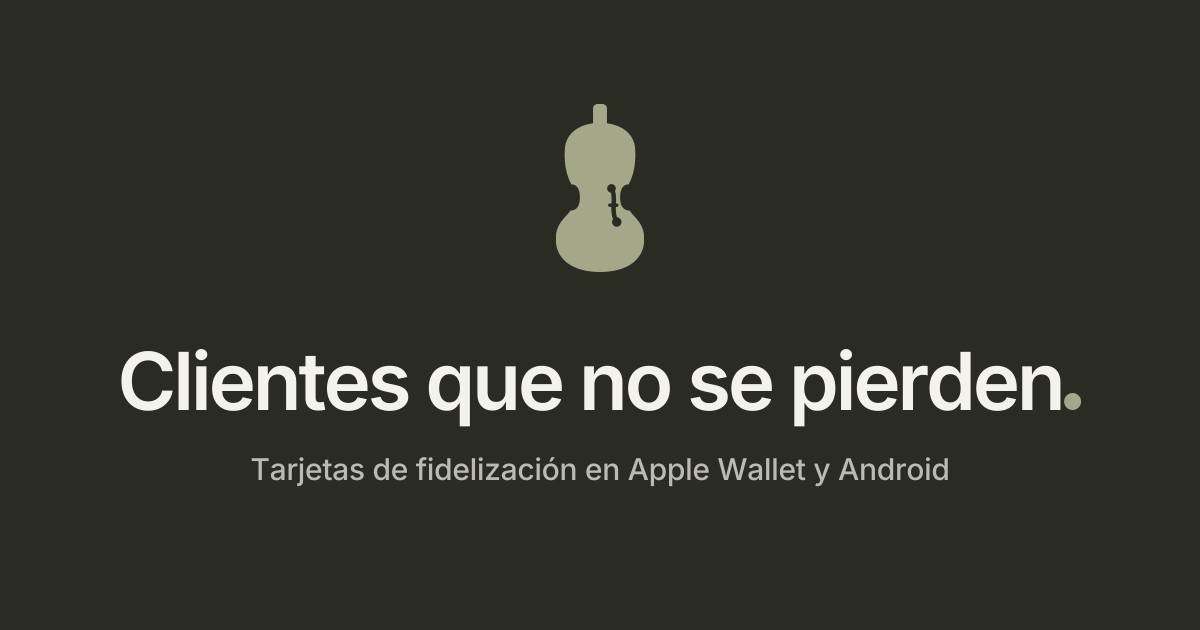
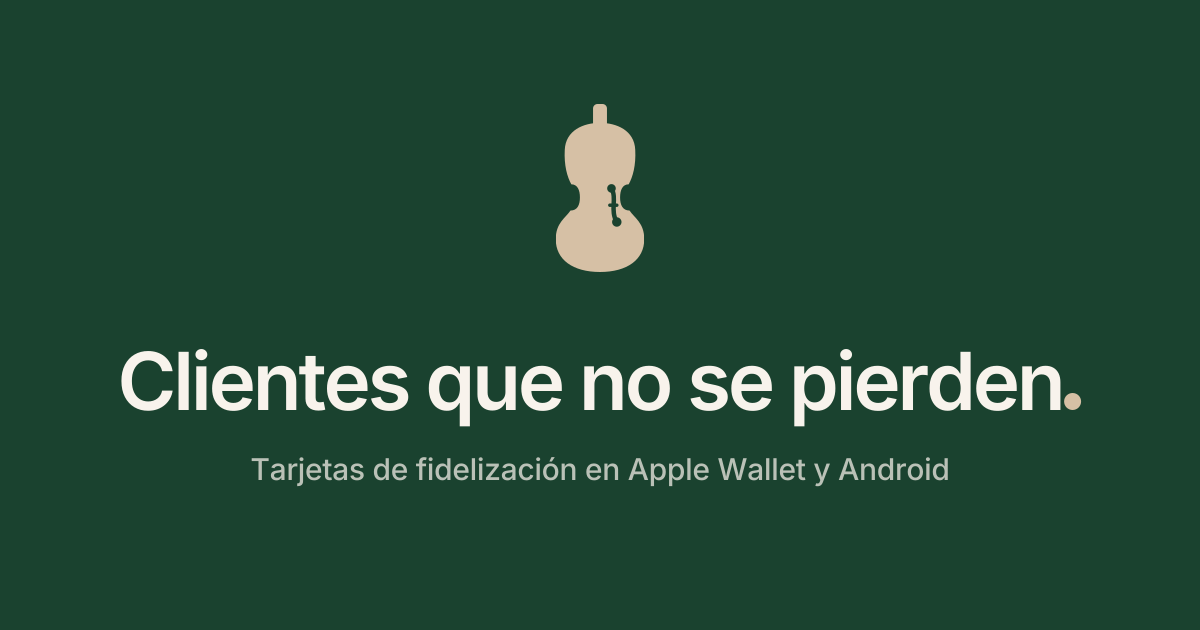
feat: la web de fiddle con la paleta «Verde y espresso»
La de antes (salvia, topo, nogal, ébano y carbón) mezclaba tres familias que se
parecían sin ser iguales: el nogal y el carbón, casi con la misma luz, eran las
dos bandas oscuras y parecían el mismo color mal copiado.

- Paleta nueva en app/home/paleta.js: verde botella para la marca (botones,
  violín y banda del panel) y la base de una cachemira para lo demás: lino de
  fondo, camel y avena de acento, visón y espresso para los textos y el pie.
  Contrastes comprobados en la cabecera del fichero.
- Las claves llevan el nombre del color nuevo (verde, camel, avena, visón,
  espresso) y las clases de las bandas, fondo-verde y fondo-espresso.
- Icono, vista previa de WhatsApp y logo para subir regenerados con
  scripts/gen-marca-web.mjs; la vista previa va sobre el verde. Versión de las
  imágenes a «verde» para que no salgan las viejas.

Changed region(s): [[0.4625, 0.1508, 0.555, 0.4524], [0.8633, 0.6333, 0.925, 0.6635]]

diff --git a/src/app/home/estilo.js b/src/app/home/estilo.js
@@ -4,10 +4,10 @@ import { PALETA as P } from "./paleta";
 // ESTILO DE LA WEB DE FIDDLE
 // ----------------------------------------------------------------------------
 // Los colores de la marca salen de paleta.js (los del iPhone, de iOS). Reparto:
-//   papel de fondo, carbón para el texto, nogal para el violín y los botones;
-//   bandas oscuras en nogal (el panel) y carbón (contacto y pie).
-//   El punto de los títulos es el sello: topo sobre claro, salvia sobre oscuro.
-//   La salvia nunca va en texto sobre claro (2,2:1).
+//   papel de fondo, espresso para el texto, verde para el violín y los botones;
+//   bandas oscuras en verde (el panel) y espresso (contacto y pie).
+//   El punto de los títulos es el sello: camel sobre claro, avena sobre oscuro.
+//   La avena nunca va en texto sobre claro (1,6:1).
 //
 // Movimiento: solo opacidad y desplazamiento. El texto de la portada no se anima:
 // tiene que verse aunque el navegador no llegue a correr ni una animación. Las
@@ -20,8 +20,8 @@ const alfa = (hex, a) => `rgba(${[1, 3, 5].map((i) => parseInt(hex.slice(i, i + 
 
 export const css = `
 .home{
-  --fondo:${P.papel}; --superficie:${P.superficie}; --tinta:${P.carbon}; --tinta-2:${P.ebano}; --tinta-3:${P.tintaSuave};
-  --linea:${alfa(P.carbon, 0.11)}; --marca:${P.nogal}; --marca-encima:${P.nogalEncima}; --acento:${P.topo}; --salvia:${P.salvia};
+  --fondo:${P.papel}; --superficie:${P.superficie}; --tinta:${P.espresso}; --tinta-2:${P.vison}; --tinta-3:${P.tintaSuave};
+  --linea:${alfa(P.espresso, 0.11)}; --marca:${P.verde}; --marca-encima:${P.verdeEncima}; --acento:${P.camel}; --avena:${P.avena};
   --claro:${P.papel}; --claro-2:${alfa(P.papel, 0.74)}; --claro-linea:${alfa(P.papel, 0.14)};
   --ancho:1120px; --margen:clamp(20px,4vw,40px); --curva:cubic-bezier(.16,1,.3,1);
   --apple:-apple-system,"SF Pro Text","Helvetica Neue",system-ui,sans-serif;
@@ -63,7 +63,7 @@ body:has(.home){background:${P.papel}}
 
 /* ---------- comunes ---------- */
 .punto{display:inline-block;width:.19em;height:.19em;margin-left:.07em;border-radius:50%;background:var(--acento);vertical-align:baseline}
-.oscuro .punto{background:var(--salvia)}
+.oscuro .punto{background:var(--avena)}
 .antetitulo{font-size:15px;font-weight:550;color:var(--tinta-2);letter-spacing:-.005em}
 .entradilla{font-size:clamp(17px,.95rem + .4vw,21px);line-height:1.5;color:var(--tinta-2);max-width:34em;text-wrap:pretty;letter-spacing:-.01em}
 .titulo-bloque{font-size:clamp(34px,1.3rem + 3.3vw,56px);line-height:1.03;font-weight:660;letter-spacing:-.042em;text-wrap:balance}
@@ -75,11 +75,11 @@ body:has(.home){background:${P.papel}}
   border-radius:999px;font-size:16px;font-weight:600;letter-spacing:-.01em;text-decoration:none;cursor:pointer;
   transition:background-color .2s,border-color .2s,transform .15s}
 .boton{background:var(--marca);color:var(--claro)!important}
-.boton-suave{border:1px solid ${alfa(P.carbon, 0.2)};color:var(--tinta)}
+.boton-suave{border:1px solid ${alfa(P.espresso, 0.2)};color:var(--tinta)}
 .boton-claro{background:var(--claro);color:var(--marca)!important}
 @media (hover:hover){
   .boton:hover{background:var(--marca-encima)}
-  .boton-suave:hover{background:${alfa(P.carbon, 0.05)};border-color:${alfa(P.carbon, 0.3)}}
+  .boton-suave:hover{background:${alfa(P.espresso, 0.05)};border-color:${alfa(P.espresso, 0.3)}}
   .boton-claro:hover{background:#fff}
 }
 .boton:active,.boton-suave:active{transform:scale(.98)}
@@ -101,7 +101,7 @@ body:has(.home){background:${P.papel}}
 /* el móvil que va pasando tarjetas (Carrusel.js) */
 .movil{position:relative;margin:0;width:322px;font-family:var(--apple)}
 .movil-cuerpo{position:relative;padding:11px;border-radius:56px;background:linear-gradient(150deg,#3b3a35,#141410 45%,#28271f);
-  box-shadow:inset 0 0 0 1.5px rgba(255,255,255,.08),0 60px 90px -40px ${alfa(P.carbon, 0.55)},0 28px 40px -28px ${alfa(P.carbon, 0.35)};
+  box-shadow:inset 0 0 0 1.5px rgba(255,255,255,.08),0 60px 90px -40px ${alfa(P.espresso, 0.55)},0 28px 40px -28px ${alfa(P.espresso, 0.35)};
   touch-action:pan-y pinch-zoom;user-select:none;-webkit-user-select:none}
 .movil-isla{position:absolute;z-index:2;top:22px;left:50%;width:94px;height:28px;border-radius:20px;background:#000;translate:-50% 0}
 .movil-pantalla{height:640px;display:flex;flex-direction:column;overflow:hidden;border-radius:45px;background:#f2f2f7;padding:0 12px;color:#000}
@@ -126,19 +126,19 @@ body:has(.home){background:${P.papel}}
 .movil-titulo{font-size:15px;font-weight:600;letter-spacing:-.01em;color:var(--tinta)}
 .movil-controles{display:flex;align-items:center}
 .movil-punto{width:28px;height:44px;display:grid;place-items:center;padding:0;border:0;background:none;cursor:pointer;border-radius:8px}
-.movil-punto i{width:7px;height:7px;border-radius:999px;background:${alfa(P.carbon, 0.55)};transition:width .3s var(--curva),background-color .3s}
+.movil-punto i{width:7px;height:7px;border-radius:999px;background:${alfa(P.espresso, 0.55)};transition:width .3s var(--curva),background-color .3s}
 .movil-punto[aria-current] i{width:22px;background:var(--marca)}
-@media (hover:hover){.movil-punto:not([aria-current]):hover i{background:${alfa(P.carbon, 0.8)}}}
+@media (hover:hover){.movil-punto:not([aria-current]):hover i{background:${alfa(P.espresso, 0.8)}}}
 .movil-pausa{margin-left:10px;width:34px;height:34px;display:grid;place-items:center;border-radius:50%;cursor:pointer;
-  border:1px solid ${alfa(P.carbon, 0.18)};background:none;color:var(--tinta-2)}
-@media (hover:hover){.movil-pausa:hover{color:var(--tinta);border-color:${alfa(P.carbon, 0.32)}}}
+  border:1px solid ${alfa(P.espresso, 0.18)};background:none;color:var(--tinta-2)}
+@media (hover:hover){.movil-pausa:hover{color:var(--tinta);border-color:${alfa(P.espresso, 0.32)}}}
 @media (max-width:379px){.movil{zoom:.88}}
 @media (max-width:339px){.movil{zoom:.8}}
 
 /* un aviso de la pantalla de bloqueo */
 .aviso{display:grid;grid-template-columns:38px minmax(0,1fr);gap:11px;align-items:center;padding:11px 14px 12px 11px;
   border-radius:22px;background:rgba(250,250,250,.88);-webkit-backdrop-filter:blur(24px) saturate(160%);backdrop-filter:blur(24px) saturate(160%);
-  box-shadow:0 14px 34px -14px ${alfa(P.carbon, 0.36)},0 0 0 .5px ${alfa(P.carbon, 0.08)};font-family:var(--apple);color:#1c1c1e;text-align:left}
+  box-shadow:0 14px 34px -14px ${alfa(P.espresso, 0.36)},0 0 0 .5px ${alfa(P.espresso, 0.08)};font-family:var(--apple);color:#1c1c1e;text-align:left}
 .aviso-texto{min-width:0}
 .aviso-cabeza{display:flex;align-items:baseline;justify-content:space-between;gap:8px}
 .aviso-cabeza strong{font-size:14.5px;font-weight:600;overflow:hidden;text-overflow:ellipsis;white-space:nowrap}
@@ -156,15 +156,15 @@ body:has(.home){background:${P.papel}}
 /* El dato grande de cada paso: lo que se tarda o lo que cuesta, que es lo que nos distingue. */
 .paso-dato{margin-top:24px;font-size:clamp(30px,1.4rem + 1vw,38px);line-height:1.05;font-weight:680;letter-spacing:-.045em;color:var(--marca)}
 .paso-visual{height:236px;display:grid;place-items:center;overflow:hidden}
-.paso-cartel{background:linear-gradient(160deg,${P.salviaClara},${P.salviaHonda})}
-.paso-caja{background:linear-gradient(160deg,${P.topoClaro},${P.topoHondo})}
-.paso-avisos{background:linear-gradient(160deg,${P.nogalClaro},${P.nogalHondo})}
-.cartel{display:grid;justify-items:center;gap:10px;width:156px;padding:16px 14px 14px;border-radius:16px;background:${P.crema};color:${P.nogal};
-  box-shadow:0 18px 30px -16px ${alfa(P.nogal, 0.5)};rotate:-4deg}
+.paso-cartel{background:linear-gradient(160deg,${P.verdeClaro},${P.verdeHondo})}
+.paso-caja{background:linear-gradient(160deg,${P.camelClaro},${P.camelHondo})}
+.paso-avisos{background:linear-gradient(160deg,${P.avenaClara},${P.avenaHonda})}
+.cartel{display:grid;justify-items:center;gap:10px;width:156px;padding:16px 14px 14px;border-radius:16px;background:${P.crema};color:${P.verde};
+  box-shadow:0 18px 30px -16px ${alfa(P.verde, 0.5)};rotate:-4deg}
 .cartel img:last-of-type{width:104px;height:104px}
 .cartel span{font-size:11.5px;font-weight:650;line-height:1.25;text-align:center;letter-spacing:-.01em}
 .caja{display:grid;gap:10px;width:236px;padding:14px;border-radius:20px;background:#fff;font-family:var(--apple);
-  box-shadow:0 18px 34px -18px ${alfa(P.carbon, 0.42)}}
+  box-shadow:0 18px 34px -18px ${alfa(P.espresso, 0.42)}}
 .caja-fila{display:flex;justify-content:space-between;align-items:center;font-size:14px}
 .caja-fila span{padding:2px 8px;border-radius:7px;background:#f2f2f7;font-size:12px;font-weight:650;letter-spacing:.12em}
 .caja-banda{display:block;width:100%;height:auto;border-radius:10px}
@@ -175,7 +175,7 @@ body:has(.home){background:${P.papel}}
   background:var(--superficie);box-shadow:0 0 0 1px var(--linea)}
 .montaje p{color:var(--tinta-2);line-height:1.55;text-wrap:pretty}
 .montaje strong{color:var(--tinta);font-weight:620}
-.montaje-icono{flex-shrink:0;width:46px;height:46px;display:grid;place-items:center;border-radius:50%;background:var(--salvia);color:var(--marca)}
+.montaje-icono{flex-shrink:0;width:46px;height:46px;display:grid;place-items:center;border-radius:50%;background:var(--avena);color:var(--marca)}
 @media (max-width:400px){.montaje{flex-direction:column;align-items:flex-start;gap:12px;padding:20px}}
 
 /* ---------- bandas oscuras ---------- */
@@ -183,8 +183,8 @@ body:has(.home){background:${P.papel}}
 .oscuro{color:var(--claro)}
 .oscuro .entradilla{color:var(--claro-2)}
 .bloque.oscuro{max-width:none;padding-left:0;padding-right:0}
-.fondo-nogal{background:var(--marca)}
-.fondo-carbon{background:var(--tinta)}
+.fondo-verde{background:var(--marca)}
+.fondo-espresso{background:var(--tinta)}
 .panel-dentro,.contacto-dentro{max-width:var(--ancho);margin:0 auto;padding:0 var(--margen)}
 
 /* ---------- el panel del dueño (Panel.js) ---------- */
@@ -215,18 +215,18 @@ body:has(.home){background:${P.papel}}
   .panel-cifras strong{font-size:24px}
 }
 .panel-barras{display:flex;align-items:flex-end;gap:3px;height:84px}
-.panel-barras i{flex:1;border-radius:3px 3px 1px 1px;background:${alfa(P.ebano, 0.45)}}
+.panel-barras i{flex:1;border-radius:3px 3px 1px 1px;background:${alfa(P.vison, 0.45)}}
 .panel-barras i.hoy{background:var(--marca)}
-.panel-barras i.cerrado{background:${alfa(P.carbon, 0.12)}}
+.panel-barras i.cerrado{background:${alfa(P.espresso, 0.12)}}
 .panel-linea{font-size:13.5px;color:var(--tinta-2)}
 .panel-linea strong{color:var(--tinta)}
 .panel-mapa{position:relative;display:grid;align-content:end;min-height:270px;padding:14px;border-radius:20px;overflow:hidden;
-  background-color:${P.salviaClara};
+  background-color:${P.verdeClaro};
   background-image:linear-gradient(35deg,transparent 46%,rgba(255,255,255,.9) 46% 54%,transparent 54%),
     repeating-linear-gradient(90deg,transparent 0 46px,rgba(255,255,255,.75) 46px 54px),
     repeating-linear-gradient(0deg,transparent 0 58px,rgba(255,255,255,.75) 58px 66px)}
 .panel-chincheta{position:absolute;left:50%;top:36%;width:18px;height:18px;border-radius:50%;background:var(--marca);translate:-50% -50%;
-  box-shadow:0 0 0 5px ${alfa(P.papel, 0.95)},0 0 0 26px ${alfa(P.nogal, 0.14)},0 0 0 52px ${alfa(P.nogal, 0.07)}}
+  box-shadow:0 0 0 5px ${alfa(P.papel, 0.95)},0 0 0 26px ${alfa(P.verde, 0.14)},0 0 0 52px ${alfa(P.verde, 0.07)}}
 .panel-grupos{display:flex;flex-wrap:wrap;gap:8px;margin-bottom:6px}
 .panel-grupos span{display:inline-flex;align-items:center;gap:6px;padding:7px 12px;border-radius:999px;font-size:13px;font-weight:550;
   background:var(--fondo);color:var(--tinta-2);box-shadow:inset 0 0 0 1px var(--linea)}
@@ -240,7 +240,7 @@ body:has(.home){background:${P.papel}}
 .panel-fila i{height:16px;border-radius:4px;background:var(--tinta-2)}
 .panel-idea{display:flex;gap:10px;align-items:flex-start;padding:12px 14px;border-radius:14px;background:var(--fondo);
   font-size:14px;font-weight:600;line-height:1.35}
-.panel-idea svg{flex-shrink:0;color:${P.topoOscuro}}
+.panel-idea svg{flex-shrink:0;color:${P.camelOscuro}}
 .panel-nota{margin-top:26px;color:var(--claro-2)}
 .panel-nota a{color:var(--claro);font-weight:600;text-decoration-thickness:1px;text-underline-offset:3px}
 
@@ -249,10 +249,10 @@ body:has(.home){background:${P.papel}}
 @media (min-width:760px){.planes{grid-template-columns:repeat(2,minmax(0,1fr));gap:22px}}
 .plan{display:flex;flex-direction:column;padding:clamp(26px,3.5vw,38px);border-radius:32px;background:var(--superficie);
   box-shadow:0 0 0 1px var(--linea)}
-.plan-destacado{background:var(--tinta);box-shadow:0 40px 70px -40px ${alfa(P.carbon, 0.6)}}
+.plan-destacado{background:var(--tinta);box-shadow:0 40px 70px -40px ${alfa(P.espresso, 0.6)}}
 .plan-cabeza{display:flex;align-items:center;justify-content:space-between;gap:12px}
 .plan-cabeza h3{font-size:22px;font-weight:650;letter-spacing:-.03em}
-.plan-etiqueta{padding:5px 11px;border-radius:999px;background:var(--salvia);color:var(--tinta);font-size:12.5px;font-weight:650;white-space:nowrap}
+.plan-etiqueta{padding:5px 11px;border-radius:999px;background:var(--avena);color:var(--tinta);font-size:12.5px;font-weight:650;white-space:nowrap}
 .plan-lema{margin-top:4px;color:var(--tinta-2)}
 .plan-precio{display:flex;align-items:baseline;gap:10px;margin:26px 0 26px}
 .plan-cifra{font-size:clamp(52px,2.4rem + 1.6vw,64px);line-height:1;font-weight:660;letter-spacing:-.05em;font-variant-numeric:tabular-nums}
@@ -262,7 +262,7 @@ body:has(.home){background:${P.papel}}
 .plan-destacado .plan-lista{border-top-color:var(--claro-linea)}
 .plan-lista li{display:grid;grid-template-columns:20px minmax(0,1fr);gap:12px;align-items:start;line-height:1.4}
 .plan-lista svg{margin-top:1px;color:var(--acento)}
-.plan-destacado .plan-lista svg{color:var(--salvia)}
+.plan-destacado .plan-lista svg{color:var(--avena)}
 .plan .boton{width:100%}
 .planes-nota{margin-top:28px;text-align:center;color:var(--tinta-2)}
 .planes-nota a{font-weight:600;color:var(--marca);text-decoration-thickness:1px;text-underline-offset:3px}
@@ -285,7 +285,7 @@ body:has(.home){background:${P.papel}}
 .iniciales{display:flex;margin-bottom:6px}
 .iniciales span{width:56px;height:56px;display:grid;place-items:center;border-radius:50%;font-size:21px;font-weight:650;
   color:var(--tinta);box-shadow:0 0 0 3px var(--tinta)}
-.iniciales span:first-child{background:var(--salvia)}
+.iniciales span:first-child{background:var(--avena)}
 .iniciales span:last-child{background:var(--claro);margin-left:-12px}
 .contacto-acciones{display:grid;gap:12px}
 .contacto-via{display:flex;align-items:center;gap:16px;min-height:76px;padding:16px 20px;border-radius:22px;text-decoration:none;

diff --git a/src/app/home/paleta.js b/src/app/home/paleta.js
@@ -1,38 +1,44 @@
 // ============================================================================
 // LOS COLORES DE FIDDLE
 // ----------------------------------------------------------------------------
-// Los cinco de la marca (elegidos el 13-10-2026) van tal cual. Son todos
-// apagados y casi todos oscuros, así que para que respiren hacen falta un papel
-// claro y unos tintes: salen de ellos mismos, no son colores nuevos.
+// «Verde y espresso» (elegida el 13-10-2026): el verde botella de un club inglés
+// para la marca y la base de una cachemira (lino, camel, avena, visón, espresso)
+// para todo lo demás. La de antes (salvia, topo, nogal) mezclaba tres familias que
+// se parecían sin ser iguales y se leía como un error.
 //
-//   carbón  el texto y las bandas oscuras         salvia  el acento sobre oscuro
-//   ébano   el texto secundario                   topo    el acento sobre claro
-//   nogal   el violín y los botones
+//   espresso  el texto y las bandas oscuras       avena  el acento sobre oscuro
+//   visón     el texto secundario                 camel  el acento sobre claro
+//   verde     el violín, los botones y el panel
 //
-// Contraste comprobado sobre el papel: carbón 12,6:1, ébano 6,3:1, nogal 11,8:1,
-// topo 4,4:1 (solo para cosas grandes: el punto, iconos). Sobre carbón, el papel
-// 12,6:1 y la salvia 5,7:1. La salvia sobre el papel no llega (2,2:1): nunca texto.
+// Una regla que no se rompe: el verde (la marca) y el espresso (la tinta) se
+// distinguen de un vistazo, por tono y por luz. Si se parecieran, la banda del
+// panel y la del pie parecerían el mismo color mal copiado.
+//
+// Contraste comprobado sobre el papel: espresso 15,9:1, visón 6,6:1, verde 10,2:1,
+// camel 3,3:1 (solo para cosas grandes: el punto, iconos). Sobre el verde, el papel
+// 10,2:1 y la avena 6,4:1; sobre el espresso, 15,9:1 y 10,0:1. La avena sobre el
+// papel no llega (1,6:1): nunca texto.
 // ============================================================================
 
 export const PALETA = {
   // los cinco
-  salvia: "#a5a789",
-  topo: "#816c61",
-  nogal: "#402c0f",
-  ebano: "#575a4b",
-  carbon: "#2a2c24",
+  verde: "#1a422f",
+  camel: "#a67f58",
+  avena: "#d6c0a5",
+  vison: "#60544b",
+  espresso: "#1f1812",
   // los que salen de ellos
-  papel: "#f4f2ec", // el fondo: blanco roto hacia la salvia
-  superficie: "#fbfaf6", // tarjetas sobre el papel
-  crema: "#f6f1e8", // el papel con algo del nogal, para tarjetas de ejemplo
-  salviaClara: "#e3e4d6",
-  topoClaro: "#ece5df",
-  nogalClaro: "#ede6da",
-  tintaSuave: "#6b6a5c", // texto terciario: 4,9:1 sobre el papel
-  topoOscuro: "#6f5b50", // el topo para letra pequeña: 5,7:1 sobre la crema
-  nogalEncima: "#553c18", // los botones al pasar el ratón
+  papel: "#f8f3ec", // el fondo: lino, blanco roto hacia la avena
+  superficie: "#fcf9f5", // tarjetas sobre el papel
+  crema: "#f6efe4", // el papel con algo más de avena, para tarjetas de ejemplo
+  verdeClaro: "#e0e9e0",
+  camelClaro: "#f2dfcf",
+  avenaClara: "#ede9df",
+  tintaSuave: "#75695f", // texto terciario: 4,8:1 sobre el papel
+  camelOscuro: "#7e5d3f", // el camel para letra pequeña: 5,2:1 sobre la crema
+  verdeEncima: "#26523c", // los botones al pasar el ratón
   // el final de los degradados de los pasos (cada tinte, un punto más hondo)
-  salviaHonda: "#d6d8c5",
-  topoHondo: "#e0d5cc",
-  nogalHondo: "#e2d6c3",
+  verdeHondo: "#d3e1d3",
+  camelHondo: "#ecd4c0",
+  avenaHonda: "#e6dfd0",
 };

diff --git a/src/app/home/page.js b/src/app/home/page.js
@@ -42,7 +42,7 @@ export default async function Home() {
       <header className="cabecera">
         <div className="cabecera-dentro">
           <a href="#inicio" className="cabecera-marca" aria-label="fiddle, inicio">
-            <LogoFiddle tam={30} color={PALETA.nogal} id="efe-cabecera" />
+            <LogoFiddle tam={30} color={PALETA.verde} id="efe-cabecera" />
           </a>
           <nav className="cabecera-nav" aria-label="Secciones">
             <a href="#como-funciona" className="solo-ancho">Cómo funciona</a>
@@ -140,7 +140,7 @@ export default async function Home() {
           </div>
         </section>
 
-        <section id="panel" className="bloque oscuro fondo-nogal" aria-labelledby="titulo-panel">
+        <section id="panel" className="bloque oscuro fondo-verde" aria-labelledby="titulo-panel">
           <div className="panel-dentro">
             <Encabezado id="titulo-panel" titulo="Sabes quién vuelve">
               Desde tu panel ves quién viene, cada cuánto y quién se te está escapando. Y desde ahí mismo
@@ -205,7 +205,7 @@ export default async function Home() {
           </div>
         </section>
 
-        <section id="contacto" className="bloque oscuro fondo-carbon">
+        <section id="contacto" className="bloque oscuro fondo-espresso">
           <div className="contacto-dentro">
             <div className="contacto-texto revela">
               <div className="iniciales" aria-hidden="true">
@@ -244,7 +244,7 @@ export default async function Home() {
 
       <footer className="pie oscuro">
         <div className="pie-dentro">
-          <LogoFiddle tam={28} color={PALETA.salvia} id="efe-pie" />
+          <LogoFiddle tam={28} color={PALETA.avena} id="efe-pie" />
           <nav className="pie-nav" aria-label="Pie">
             <a href="#como-funciona">Cómo funciona</a>
             <a href="#panel">El panel</a>
@@ -284,7 +284,7 @@ const PREGUNTAS = [
   ],
 ];
 
-// El punto del final de cada título: un sello (topo en claro, salvia en oscuro).
+// El punto del final de cada título: un sello (camel en claro, avena en oscuro).
 function Punto() {
   return <span className="punto" aria-hidden="true" />;
 }
@@ -312,6 +312,6 @@ function Flecha() {
 const banda = ({ negocio, cliente }) => comoDataUri(stripDelPase(negocio, cliente).svg);
 
 async function qrDeTexto(texto) {
-  const svg = await QRCode.toString(texto, { type: "svg", margin: 2, errorCorrectionLevel: "M", color: { dark: PALETA.carbon, light: "#ffffff" } });
+  const svg = await QRCode.toString(texto, { type: "svg", margin: 2, errorCorrectionLevel: "M", color: { dark: PALETA.espresso, light: "#ffffff" } });
   return comoDataUri(svg);
 }

diff --git a/src/app/home/demo.js b/src/app/home/demo.js
@@ -49,8 +49,8 @@ export const CAFETERIA = {
   slug: "tu-cafeteria",
   nombre: "Tu cafetería",
   premio: "café gratis",
-  // topoOscuro y no topo: también pinta las etiquetas pequeñas del pase («PREMIO»).
-  tema: { estilo: "coffee", cardBg: P.crema, ink: P.nogal, accent: P.topoOscuro },
+  // camelOscuro y no camel: también pinta las etiquetas pequeñas del pase («PREMIO»).
+  tema: { estilo: "coffee", cardBg: P.crema, ink: P.verde, accent: P.camelOscuro },
 };
 
 // El móvil de la portada: una tarjeta por cosa que sabe hacer. Todas de «Tu
@@ -62,7 +62,7 @@ export const CARRUSEL = [
   {
     id: "doble",
     titulo: "Dos cartillas en una",
-    tienda: tuya("doble", { doble: "filas", cardBg: P.salviaClara, ink: P.carbon, accent: P.ebano }, {
+    tienda: tuya("doble", { doble: "filas", cardBg: P.verdeClaro, ink: P.espresso, accent: P.vison }, {
       cartillas: [
         { nombre: "Cafés", marca: "taza", meta: 8, premio: "café gratis" },
         { nombre: "Bollería", marca: "croissant", meta: 6, premio: "croissant gratis" },
@@ -71,12 +71,12 @@ export const CARRUSEL = [
     sellos: 5,
     sellos2: 2,
   },
-  { id: "forma", titulo: "Elige la forma", tienda: tuya("forma", { forma: "rombo", banda: "rayas", cardBg: P.crema, ink: P.nogal, accent: P.nogal }), sellos: 5 },
-  { id: "planta", titulo: "Una planta que crece", tienda: tuya("planta", { modo: "planta", cardBg: P.papel, ink: P.carbon, accent: P.ebano }), sellos: 5 },
+  { id: "forma", titulo: "Elige la forma", tienda: tuya("forma", { forma: "rombo", banda: "rayas", cardBg: P.crema, ink: P.verde, accent: P.verde }), sellos: 5 },
+  { id: "planta", titulo: "Una planta que crece", tienda: tuya("planta", { modo: "planta", cardBg: P.papel, ink: P.espresso, accent: P.vison }), sellos: 5 },
   {
     id: "cerrado",
     titulo: "Y cuándo vuelves a abrir",
-    tienda: tuya("cerrado", { forma: "hexagono", banda: "clara", cardBg: P.carbon, ink: P.papel, accent: P.ebano, detalle: P.salvia }),
+    tienda: tuya("cerrado", { forma: "hexagono", banda: "clara", cardBg: P.espresso, ink: P.papel, accent: P.vison, detalle: P.avena }),
     sellos: 4,
     estado: "cerrado",
   },

diff --git a/src/app/home/layout.js b/src/app/home/layout.js
@@ -7,7 +7,7 @@ import { PALETA } from "./paleta";
 // único que deja la CSP (font-src 'self').
 const geist = Geist({ subsets: ["latin"], display: "swap", variable: "--fuente-web" });
 
-const VERSION_IMAGENES = "violin";
+const VERSION_IMAGENES = "verde";
 
 const DESCRIPCION =
   "Tarjetas de fidelización para cafeterías en Apple Wallet y Android. Tus clientes la guardan con un escaneo y tú sumas sellos desde el móvil de la tienda.";

diff --git a/CLAUDE.md b/CLAUDE.md
@@ -548,8 +548,10 @@ contacto (`app/home/`). Estática: no lee la base ni la sesión.
   sabe hacer (`CARRUSEL`; quién se ve lo decide `Carrusel.js`). Una novedad del pase que
   se quiera enseñar = una entrada ahí. «● Abierto hasta…» lo escribe `estadoParaPase`.
 - **La marca (desde el 13-10-2026)**: el violín de `lib/violin.js` (caja, arranque del
-  mástil y UNA efe recortada, que es la «f») y la paleta de `app/home/paleta.js` (salvia,
-  topo, nogal, ébano y carbón, más el papel y los tintes que salen de ellos). Los colores
+  mástil y UNA efe recortada, que es la «f») y la paleta de `app/home/paleta.js` («Verde y
+  espresso» desde el 13-10-2026: verde botella para la marca y camel, avena, visón y espresso,
+  más el papel y los tintes que salen de ellos). El verde y el espresso se distinguen siempre:
+  son las dos bandas oscuras y no pueden parecer el mismo color. Los colores
   de la marca en la web, todos de ahí (el iPhone de la portada lleva los de iOS). El logo viejo («f.» rosa, `docs/marca/fiddle-logo.svg`)
   sigue en el Perfil de Empresa de Google Wallet hasta que se suba `fiddle-violin-1024.png`.
 - **«Entrar» va a `/`**, que manda a cada uno a su sitio (panel, caja o login). El login
